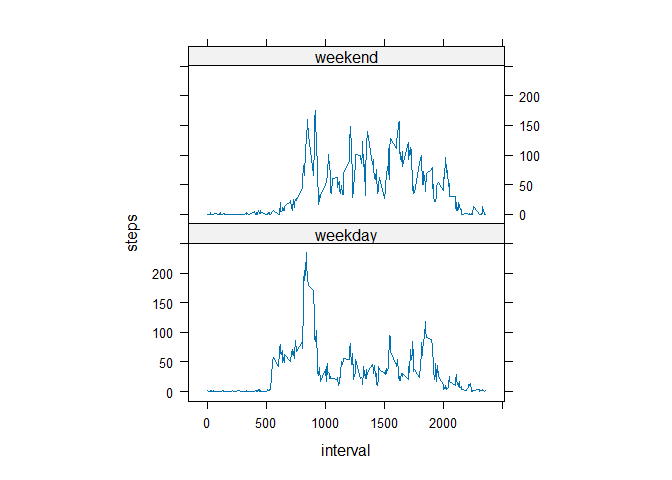
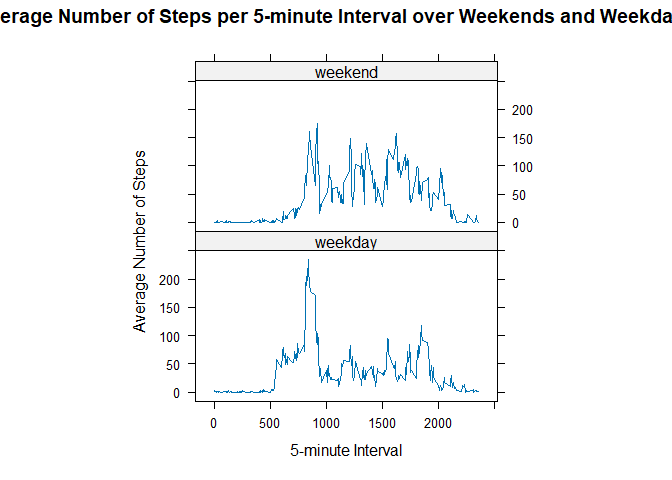
Fixing graph

diff --git a/PA1_template.html b/PA1_template.html
@@ -493,8 +493,9 @@ averaged across all weekday days or weekend days (y-axis)</h3>
 <pre><code>## `summarise()` has grouped output by &#39;interval&#39;. You can override using the
 ## `.groups` argument.</code></pre>
 <pre class="r"><code>xyplot(steps ~ interval | factor(day), data = ave_activity2, aspect = 1/2, 
-    type = &quot;l&quot;)</code></pre>
[1 lines of base64/hex data omitted]
+    type = &quot;l&quot;, xlab = &quot;5-minute Interval&quot;, ylab = &quot;Average Number of Steps&quot;,
+    main = &quot;Average Number of Steps per 5-minute Interval over Weekends and Weekdays&quot;)</code></pre>
[1 lines of base64/hex data omitted]
 </div>
 </div>
 

diff --git a/PA1_template.md b/PA1_template.md
@@ -203,7 +203,8 @@ ave_activity2 <- activity2 %>%
 
 ``` r
 xyplot(steps ~ interval | factor(day), data = ave_activity2, aspect = 1/2, 
-    type = "l")
+    type = "l", xlab = "5-minute Interval", ylab = "Average Number of Steps",
+    main = "Average Number of Steps per 5-minute Interval over Weekends and Weekdays")
 ```
 
 ![](PA1_template_files/figure-html/unnamed-chunk-14-1.png)<!-- -->
